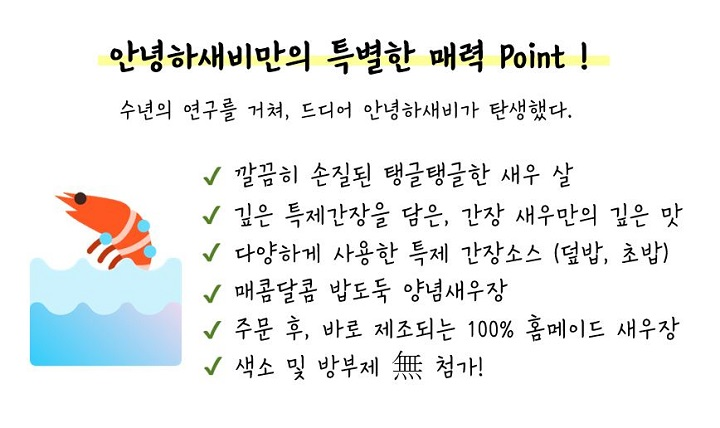
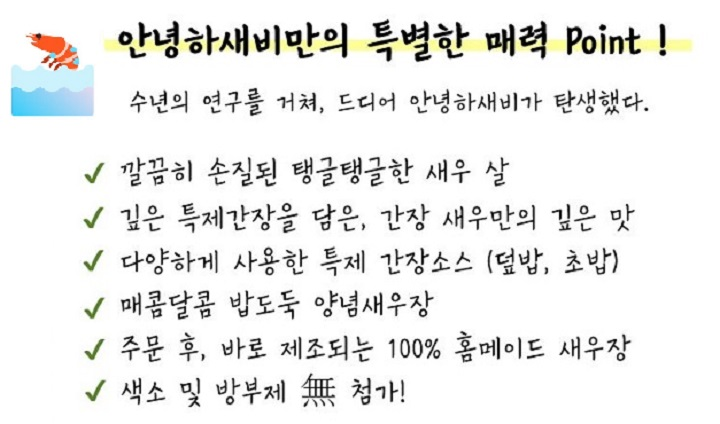
d

Changed region(s): [[0.0306, 0.3679, 0.9472, 0.9811], [0.0, 0.0307, 0.9778, 0.2759]]

diff --git a/_posts/2020-01-20-안녕하새비의-깐새우장.md b/_posts/2020-01-20-안녕하새비의-깐새우장.md
@@ -4,6 +4,7 @@ title: 안녕하새비의 깐새우장
 categories:
   - Product 
 featured_image: /images/product/shrimp2.jpg
+<!--
 recipe:
   servings: 12 cupcakes
   prep: 5 minutes
@@ -44,7 +45,11 @@ recipe:
     **Icing**
     1. Combine all of the above in a food processor and process until smooth. Refrigerate.
     2. Frost cupcakes as you use them.
+-->
 ---
+<center>
+    안녕하새비만의 특별한 매력 Point &#x1F601;&#x1F44D;
+</center>
 
 ![point](/images/product/point.JPG)
 
